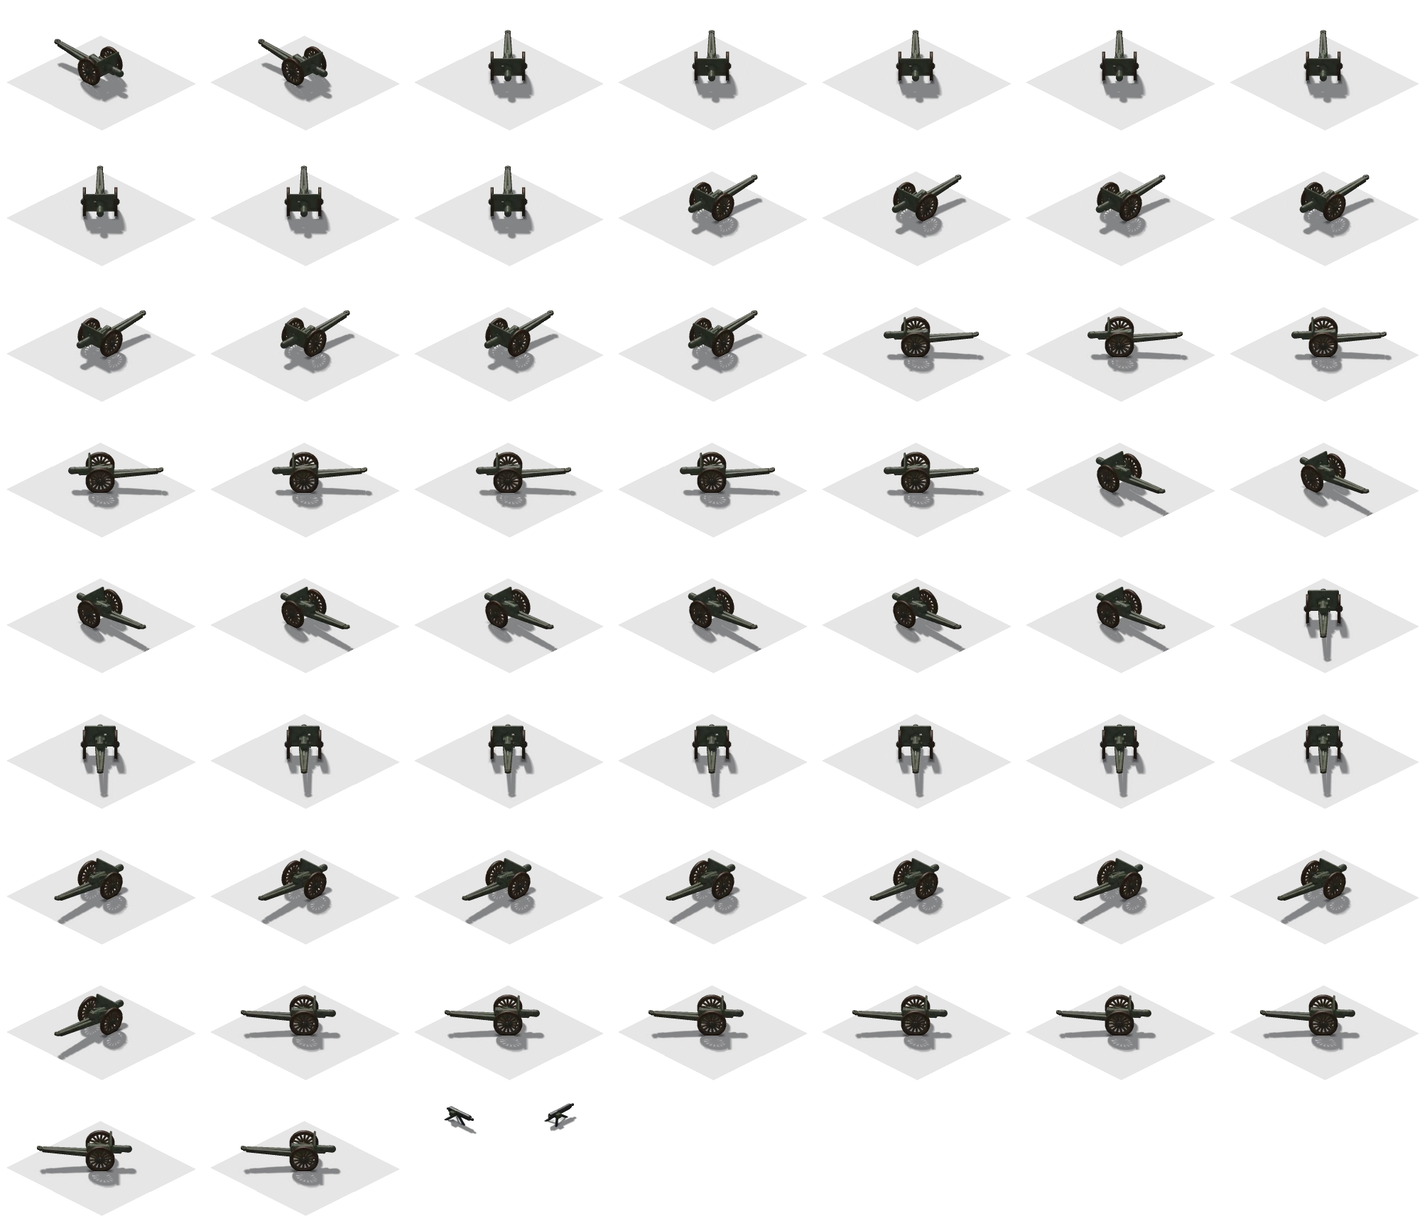
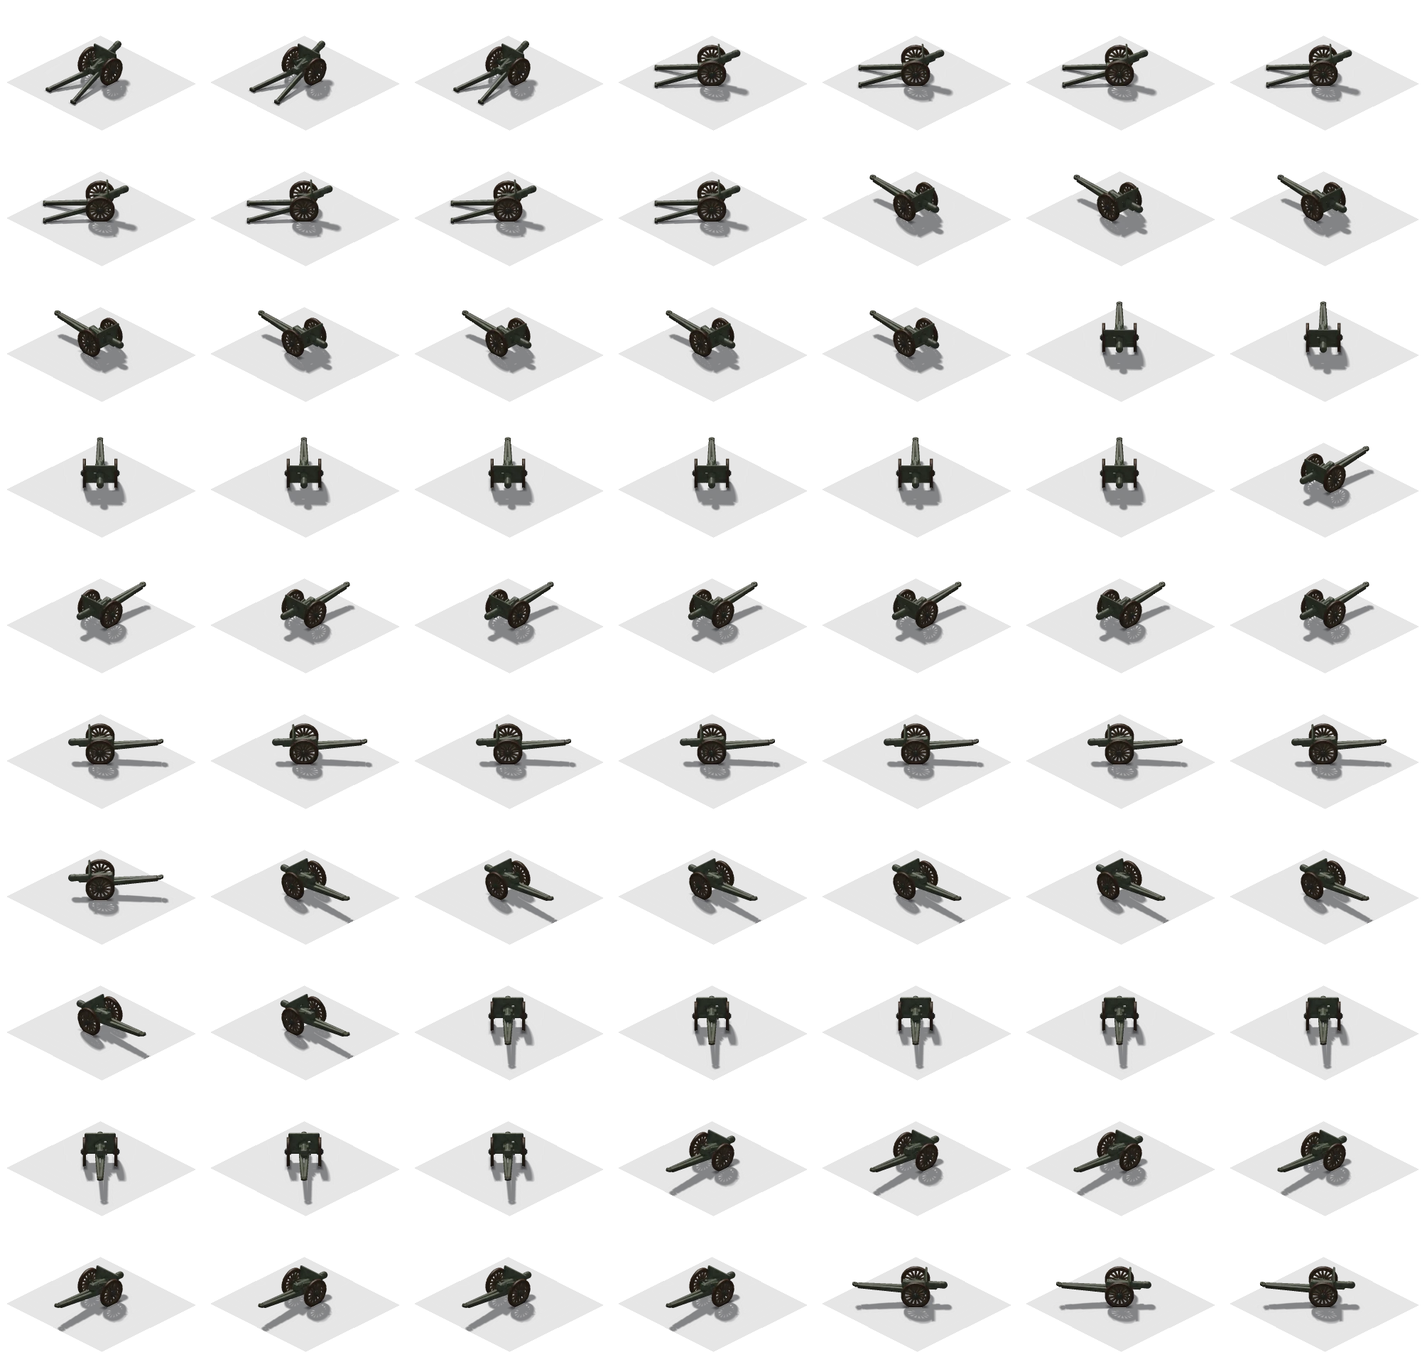
Tanks in the last battle
A new unit, built at headquarters in The Black Day only (key 4), at great cost (8 men, 300 ammunition,
260 supplies). Rendered from the supplied 3D model in 8 headings. It rolls over trenches and flattens
the wire it crosses; its machine guns fire every way (300 bursts aboard), its side guns at whatever lies
abeam (20 shells, small bursts). Bullets and splinters glance off; only a shell bursting right on it
knocks it out. Rolling into a trench it may ditch (10% in an enemy trench, a third of that in our own),
and on the move it may break down (about once in 200 s): either way it moves no more but fights on until
its ammunition is gone. The recruit buttons go to two columns when there are four; the unit card shows
its shells and rounds, and the map its ammunition bars and DITCHED / BROKEN DOWN / NO AMMUNITION.

Claude-Session: https://claude.ai/code/session_01QRLYjet5i3xPK5hPmw42NL

diff --git a/src/game.js b/src/game.js
@@ -79,6 +79,7 @@ function nearestTrenchInRow(map, team, x, y) {
 
 export function spawnUnit(state, type, team, x, y) {
   const t = UNIT_TYPES[type];
+  const tankStores = type === 'tank' ? { shells: t.shells, mgRounds: t.mgRounds, cannonTimer: 2 } : {};
   const u = {
     id: nextId++,
     type, team, x, y,
@@ -111,6 +112,7 @@ export function spawnUnit(state, type, team, x, y) {
     seed: rand(),
     dead: false,
     ai: {},
+    ...tankStores,
   };
   const tile = tileAt(state.map, x, y);
   u.inTrench = !!tile && tile.trench > 0;
@@ -218,11 +220,12 @@ export function buyUnit(state, team, type) {
   const t = UNIT_TYPES[type];
   const res = state.resources[team];
   if (hqThreatened(state, team)) return 'HQ under attack, no recruiting';
+  if (t.special && !(state.special && state.special[type])) return 'Not available in this battle';
   if (!canAfford(res, t.cost)) return 'Not enough resources';
   pay(res, t.cost);
   const hq = state.map.hq[team];
   const dir = teamDir(team);
-  if (type !== 'artillery') {
+  if (type !== 'artillery' && type !== 'tank') {
     // infantry and machine guns muster in the trenches near headquarters (not on the open ground beside
     // them, to climb in again at once): the least crowded spot of our own trench within a few tiles
     const spot = musterSpot(state, team);
@@ -458,12 +461,58 @@ const speedAt = (tile) => (tile.rock || tile.block ? 0 : terrainFactor(tile));
 export function planRoute(state, u, x, y) {
   if (globalThis.NO_PATH) return null; // (simulation experiments)
   const C = CLIMB[u.type] || CLIMB.rifle, sp = UNIT_TYPES[u.type].speed || 0.8;
+  if (u.type === 'tank') return findPath(state.map, u.x, u.y, x, y, (t) => (t.rock || t.block ? 0 : t.trench ? 0.6 : t.wire ? 0.9 : terrainFactor(t)), () => 0); // (it rolls over wire and trenches)
   if (u.type === 'artillery') { // a battery crosses a trench on planks it lays over it, never down in it
     const enter = (t) => (t.trench && !t.bridge ? BRIDGE_TIME * sp + 1 : 0);
     return findPath(state.map, u.x, u.y, x, y, (t) => (t.trench ? (t.bridge ? 1 : 0.9) : speedAt(t)), () => 0, enter);
   }
   const climb = (out) => (out ? C.out : C.in) * (1 + CLIMB_GAP * (C.groups - 1)) * 0.75 * sp;
   return findPath(state.map, u.x, u.y, x, y, speedAt, climb);
+}
+
+export const TANK_DITCH = 0.1; // chance of ditching in each enemy trench a tank crosses (a third of that in its own)
+export const TANK_BREAKDOWN = 1 / 200; // chance per second, on the move, of a mechanical failure
+/**
+ * A tank's own business each tick: it flattens the wire it rolls over; crossing a trench it may ditch
+ * (nose down, tracks spinning) and on the move it may break down - either way it moves no more, though it
+ * fights on; and its side guns fire on what lies abeam while it has shells.
+ */
+function tankTick(state, u, tile, dt) {
+  const t = UNIT_TYPES.tank;
+  if (tile && tile.wire > 0) { tile.wire = 0; markChanged(state.map, tile.x, tile.y); }
+  const key = tile ? tile.y * state.map.w + tile.x : -1;
+  if (key !== u.lastTile) {
+    // on rolling down into a trench (not along one): it may ditch - more likely in the enemy's broad trenches
+    const into = tile && tile.trench && !u.wasOnTrench;
+    if (into && !u.stuck && rand() < (tile.origOwner === u.team ? TANK_DITCH * 0.35 : TANK_DITCH)) { u.stuck = 'ditched'; if (u.team === PLAYER) pushMessage(state, 'A tank has ditched in a trench!', 'warn'); }
+    u.wasOnTrench = !!(tile && tile.trench);
+    u.lastTile = key;
+  }
+  if (u.moving && !u.stuck && rand() < TANK_BREAKDOWN * dt) { u.stuck = 'broken'; if (u.team === PLAYER) pushMessage(state, 'A tank has broken down!', 'warn'); }
+  if (u.stuck) { u.order = null; u.path = null; }
+  // the side guns: at whatever lies abeam (within 50 degrees of square to its heading), riflemen and guns first
+  u.cannonTimer = (u.cannonTimer || 0) - dt;
+  if (u.cannonTimer > 0 || !(u.shells > 0)) return;
+  const hl = Math.hypot(u.hx, u.hy) || 1, hx = u.hx / hl, hy = u.hy / hl;
+  let best = null, bs = Infinity;
+  for (const e of state.units) {
+    if (e.dead || e.team === u.team || !e.visible && e.team !== PLAYER) continue;
+    const dx = e.x - u.x, dy = e.y - u.y, d = Math.hypot(dx, dy);
+    if (d < 1.5 || d > t.cannonRange) continue;
+    if (Math.abs((dx * hx + dy * hy) / d) > 0.64) continue; // not abeam
+    const sc = d * (e.type === 'mg' ? 0.6 : e.type === 'artillery' ? 0.7 : e.type === 'tank' ? 0.5 : 1);
+    if (sc < bs) { bs = sc; best = e; }
+  }
+  if (!best) { u.cannonTimer = 0.5; return; }
+  u.shells--; u.cannonTimer = t.cannonInterval * (0.85 + rand() * 0.3);
+  const sp = 0.25 + dist(u, best) * 0.05, a = rand() * Math.PI * 2, r = rand() * sp;
+  const side = Math.sign((best.x - u.x) * -hy + (best.y - u.y) * hx) || 1;
+  const fx = -hy * side, fy = hx * side;
+  state.effects.push({ type: 'gunflash', x: u.x + fx * 0.6, y: u.y + fy * 0.6, age: 0, life: 0.3, hx: fx, hy: fy, facing: Math.sign(fx - fy) || 1 });
+  state.events.push({ type: 'artyfire', x: u.x, y: u.y });
+  u.firing = 0.3; u.lastShot = state.time; u.cannonSide = side;
+  explode(state, { x: best.x + Math.cos(a) * r, y: best.y + Math.sin(a) * r, team: u.team, big: 0.55 }); // (a 6-pounder: a small burst)
+  if (u.shells === 0 && u.team === PLAYER) pushMessage(state, 'A tank has fired its last shell.', 'warn');
 }
 
 function terrainFactor(tile) {
@@ -482,7 +531,8 @@ function updateUnit(state, u, dt) {
   const t = UNIT_TYPES[u.type];
   const tile = tileAt(state.map, u.x, u.y);
   const wasIn = u.inTrench;
-  u.inTrench = !!tile && tile.trench > 0 && u.type !== 'artillery'; // a battery never goes down into a trench (it bridges it)
+  u.inTrench = !!tile && tile.trench > 0 && u.type !== 'artillery' && u.type !== 'tank'; // a battery never goes down into a trench (it bridges it); a tank rolls over it
+  if (u.type === 'tank') tankTick(state, u, tile, dt);
   // at sea: the men are in a boat (rowed in to the beach); stepping ashore leaves the boat beached at the water's edge
   const afloat = !!(tile && tile.sea) && !u.onShip; // (the guns on the River Clyde's deck are not in a boat)
   // the men jump out on the beach at once; one of the crew rows the empty boat back out to sea
@@ -491,7 +541,7 @@ function updateUnit(state, u, dt) {
   // climbing out of a trench, or down into one, takes time: the men haul themselves over the parapet.
   // Out: as soon as the ground just ahead is no longer trench (the men are at the trench wall).
   // In: on stepping onto a trench tile.
-  if (u.order && !u.climb && u.type !== 'artillery') {
+  if (u.order && !u.climb && u.type !== 'artillery' && u.type !== 'tank') {
     const charge = u.order.kind === 'charge';
     // the unit climbs group by group (a rifle squad's two ranks, an MG team's two pairs, a battery crew's
     // three pairs, hauling the gun): each group takes `rank` seconds, the next starting as the one before is
@@ -628,7 +678,7 @@ function updateUnit(state, u, dt) {
   }
 
   // --- melee (bayonets, clubs, grenades)
-  if (u.closest && closeD < MELEE_RANGE) {
+  if (u.closest && closeD < MELEE_RANGE && u.type !== 'tank') {
     let dmg = u.men * t.melee * dt * 1.5;
     if (u.chargeBonus > 0) dmg *= 2.0; // the shock of a bayonet charge
     if (u.suppression > 50) dmg *= 0.5;
@@ -640,9 +690,10 @@ function updateUnit(state, u, dt) {
 
   // --- small-arms fire
   u.fireTimer = Math.max(0, u.fireTimer - dt * (u.moving ? 0.6 : 1));
-  if (t.range && !charging && !u.holdFire && !u.afloat && !(u.onShip && u.pinned) && u.target && u.setup <= 0 && !(u.packing > 0) && u.fireTimer <= 0) {
+  if (t.range && !charging && !u.holdFire && !u.afloat && !(u.onShip && u.pinned) && !(u.type === 'tank' && !(u.mgRounds > 0)) && u.target && u.setup <= 0 && !(u.packing > 0) && u.fireTimer <= 0) {
     if (dist(u, u.target) <= (u.range || t.range)) { // (a unit may have its own reach: the River Clyde's guns)
       fire(state, u, u.target, t);
+      if (u.type === 'tank') u.mgRounds--;
       u.fireTimer = t.fireInterval * (0.85 + rand() * 0.3);
     }
   }
@@ -734,6 +785,12 @@ function fire(state, u, target, t) {
  */
 export function damageUnit(state, u, amount, blast = null, shooter = null) {
   if (u.dead || amount <= 0 || u.invulnerable) return; // invulnerable: kept alive by a scripted scene
+  if (u.type === 'tank') { // armour: bullets and splinters glance off; only a shell bursting right on it knocks it out
+    if (!blast || blast.d > 0.8) return;
+    amount = u.hp;
+    state.effects.push({ type: 'smoke', x: u.x, y: u.y, age: 0, life: 40 }, { type: 'boom', x: u.x, y: u.y, age: 0, life: 0.7 });
+    if (u.team === PLAYER) pushMessage(state, 'A tank has been knocked out by a direct hit!', 'loss');
+  }
   const t = UNIT_TYPES[u.type];
   const before = u.men;
   if (u.afloat) amount *= blast ? 0.5 : 1.4; // men packed in an open boat: exposed to rifle and machine-gun fire, but low in the water, shell splinters mostly spent on the sea
@@ -742,7 +799,7 @@ export function damageUnit(state, u, amount, blast = null, shooter = null) {
   u.hp -= amount;
   u.men = Math.max(0, Math.ceil(u.hp / t.hpPerMan - 1e-6));
   state.stats.lost[u.team] += before - u.men;
-  if (!u.afloat) for (let i = 0; i < Math.min(3, before - u.men); i++) fallen(state, u, blast, shooter);
+  if (!u.afloat && u.type !== 'tank') for (let i = 0; i < Math.min(3, before - u.men); i++) fallen(state, u, blast, shooter);
   else { // at sea the dead go over the side and float, drifting, until they sink from sight
     const fl = state.floaters || (state.floaters = []);
     for (let i = 0; i < Math.min(smashed ? 4 : 2, before - u.men); i++) fl.push({ kind: 'body', x: u.x + (rand() - 0.5) * (smashed ? 1.4 : 0.8), y: u.y + (rand() - 0.5) * (smashed ? 1.0 : 0.6), v: Math.floor(rand() * 3), d: [0, 2, 5][Math.floor(rand() * 3)], t: state.time, life: 22 + rand() * 18, m: rand() < 0.5 });

diff --git a/src/render.js b/src/render.js
@@ -1790,6 +1790,27 @@ export class Renderer {
     return true;
   }
 
+  /** A tank (pre-rendered from its 3D model, 8 headings), rocking a little on the move; nose-down when ditched. */
+  drawTank(ctx, p, u, t, selected, time) {
+    if (selected) { ctx.strokeStyle = 'rgba(160,255,110,0.95)'; ctx.lineWidth = 1.8; ctx.beginPath(); ctx.ellipse(p.x, p.y, 52, 26, 0, 0, TAU); ctx.stroke(); }
+    const dir = ((Math.round(Math.atan2(u.hy, u.hx) / (Math.PI / 4)) % 8) + 8) % 8;
+    const rock = u.moving ? Math.sin(time * 7 + u.seed * 9) * 1.2 : 0;
+    const sink = u.stuck === 'ditched' ? 7 : 0;
+    ctx.save();
+    if (u.stuck === 'ditched') { ctx.translate(p.x, p.y); ctx.rotate(0.1 * (dir < 4 ? 1 : -1)); ctx.translate(-p.x, -p.y); }
+    const ok = this.drawFrame(ctx, 'units', `tank_d${dir}`, p.x, p.y + rock + sink, 1);
+    ctx.restore();
+    if (!ok) { ctx.fillStyle = '#4a4436'; ctx.beginPath(); ctx.ellipse(p.x, p.y - 12, 40, 20, 0, 0, TAU); ctx.fill(); }
+    if (u.stuck === 'broken' && Math.floor(time * 2 + u.seed * 5) % 3 === 0) { ctx.fillStyle = 'rgba(70,70,72,0.35)'; ctx.beginPath(); ctx.arc(p.x + 6, p.y - 44 - (time * 12 % 14), 7, 0, TAU); ctx.fill(); } // smoke from the engine
+    // strength (it is a direct hit or nothing), shells and machine-gun rounds, and what is wrong with it
+    const by = p.y - 58;
+    ctx.fillStyle = 'rgba(0,0,0,0.6)'; ctx.fillRect(p.x - 18, by, 36, 7);
+    ctx.fillStyle = '#e8c35a'; ctx.fillRect(p.x - 17, by + 1, 34 * Math.max(0, (u.shells || 0) / t.shells), 2);
+    ctx.fillStyle = '#c9c4b2'; ctx.fillRect(p.x - 17, by + 4, 34 * Math.max(0, (u.mgRounds || 0) / t.mgRounds), 2);
+    const label = u.stuck === 'ditched' ? 'DITCHED' : u.stuck === 'broken' ? 'BROKEN DOWN' : !(u.shells > 0) && !(u.mgRounds > 0) ? 'NO AMMUNITION' : '';
+    if (label) { ctx.font = 'bold 8px sans-serif'; ctx.textAlign = 'center'; ctx.fillStyle = '#ffb060'; this.wtext(ctx, label, p.x, by - 2); }
+  }
+
   /** Howitzer from the supplied art: a faces -x, b faces +y; mirrored for -y / +x. */
   /** Heading a gun is drawn with: trail-first while being moved, otherwise laid on its target. */
   static gunHeading(u) { return Renderer.travelling(u) ? [-u.hx, -u.hy] : [u.aimX ?? u.hx, u.aimY ?? u.hy]; }
@@ -1871,6 +1892,7 @@ export class Renderer {
       const stroke = Math.floor((time * 2.2 + u.id * 0.37) % 4); // all hands at the oars
       if (this.drawFrame(ctx, this.propGroup(), `boat${u.id % 3}_r${stroke}`, p.x, p.y + bob, 1) || this.drawFrame(ctx, this.propGroup(), `boat${u.id % 3}`, p.x, p.y + bob, 1)) return;
     }
+    if (u.type === 'tank') { this.drawTank(ctx, p, u, t, selected, time); return; }
     if (selected) {
       ctx.strokeStyle = 'rgba(160,255,110,0.95)'; ctx.lineWidth = 1.6;
       ctx.beginPath(); ctx.ellipse(p.x, p.y, 22, 11, 0, 0, TAU); ctx.stroke();

diff --git a/src/campaign.js b/src/campaign.js
@@ -956,7 +956,7 @@ export const LEVELS = [
     radius: 59, // a broad front: three times the usual battlefield
     history: 'August 1918. Four years of war have taught the Allied armies how to win. Your American division holds the centre of a great line, with the British on one flank and the French on the other. At zero hour, in thick fog, more than two thousand guns open fire at once and the whole line goes forward behind the barrage - with you or without you. The German line is deep, three trench lines bristling with machine guns, and he will counter-attack whatever is taken. Break through and take his headquarters before the day is out.',
     objectives: ['Take the enemy headquarters before midnight.', 'Go forward with the British and French at zero hour.', 'Do not let the enemy take your headquarters.'],
-    rules: ['You command the Americans in the centre. The British and French on your flanks are under their own command: at zero hour they attack whatever you do.', 'Zero hour comes after a short countdown. Be ready to go forward with them, or they will be fighting alone.', 'The enemy defends in depth, and every few hours his reserves counter-attack what has been taken. A long summer day: the clock runs slower than in other battles.'],
+    rules: ['You command the Americans in the centre. The British and French on your flanks are under their own command: at zero hour they attack whatever you do.', 'Zero hour comes after a short countdown. Be ready to go forward with them, or they will be fighting alone.', 'Tanks can be built at headquarters, at great cost: they crush wire and cross trenches, but may ditch or break down, and only carry so much ammunition.', 'The enemy defends in depth, and every few hours his reserves counter-attack what has been taken. A long summer day: the clock runs slower than in other battles.'],
     medals: ['The Black Day of the German army', 'By noon: the enemy headquarters taken before 12:00', 'Fewer than 800 men lost along the whole front, allies included'],
     debrief: {
       won: 'On 8 August 1918 the Allied armies advanced eight miles in a single day, and whole German units surrendered. General Ludendorff called it "the black day of the German army". It began the Hundred Days Offensive, and three months later the war was over.',
@@ -1002,6 +1002,7 @@ export const LEVELS = [
       const ai = state.ais[0];
       ai.level = { ...DIFFICULTY.medium, firstAttack: 3600, attackGap: [1200, 1500], income: 0.7 };
       ai.offensive = 3600;
+      state.special = { tank: true }; // tanks can be built at headquarters in this battle
       state.campaign.zero = 120; // zero hour, in seconds of battle time
     },
     events: [

diff --git a/index.html b/index.html
@@ -9,7 +9,7 @@
   <link rel="icon" href="favicon.ico" sizes="16x16 32x32 48x48">
   <link rel="apple-touch-icon" href="assets/icon/apple-touch-icon.png">
   <meta name="theme-color" content="#15120d">
-  <link rel="stylesheet" href="style.css?v=01786f68" />
+  <link rel="stylesheet" href="style.css?v=682ed8d9" />
   <!-- stamp:begin (scripts/stamp.mjs) -->
   <script type="importmap">
   {
@@ -17,18 +17,18 @@
       "./src/ai.js": "./src/ai.js?v=3e8e2a90",
       "./src/atmosphere.js": "./src/atmosphere.js?v=e3ff2b7a",
       "./src/audio.js": "./src/audio.js?v=79fe07fc",
-      "./src/campaign.js": "./src/campaign.js?v=b8639a86",
-      "./src/config.js": "./src/config.js?v=82ca61d3",
-      "./src/game.js": "./src/game.js?v=8ede8c70",
+      "./src/campaign.js": "./src/campaign.js?v=c6646f7d",
+      "./src/config.js": "./src/config.js?v=ee8c699f",
+      "./src/game.js": "./src/game.js?v=4961e988",
       "./src/main.js": "./src/main.js?v=a4ea0d29",
       "./src/map.js": "./src/map.js?v=3ed5bbdb",
       "./src/model-view.js": "./src/model-view.js?v=214a5b12",
       "./src/path.js": "./src/path.js?v=23c490f7",
       "./src/relief.js": "./src/relief.js?v=2441f819",
-      "./src/render.js": "./src/render.js?v=b82df10b",
+      "./src/render.js": "./src/render.js?v=d623301b",
       "./src/save.js": "./src/save.js?v=523a18d8",
       "./src/tutorial.js": "./src/tutorial.js?v=134dce8b",
-      "./src/ui.js": "./src/ui.js?v=daea7bb0",
+      "./src/ui.js": "./src/ui.js?v=36b22117",
       "./src/voice.js": "./src/voice.js?v=a581782b"
     }
   }
@@ -76,6 +76,7 @@
             <button data-recruit="rifle" class="pic"><img alt=""><span><kbd>1</kbd> Rifle Squad<small></small></span></button>
             <button data-recruit="mg" class="pic"><img src="assets/art/card-mg.webp" alt=""><span><kbd>2</kbd> MG Team<small></small></span></button>
             <button data-recruit="artillery" class="pic"><img src="assets/art/card-artillery.webp" alt=""><span><kbd>3</kbd> Field Battery<small></small></span></button>
+            <button data-recruit="tank" class="pic hidden"><img src="assets/art/card-tank.webp" alt=""><span><kbd>4</kbd> Tank<small></small></span></button>
           </div>
         </div>
         <div class="group">

diff --git a/src/ui.js b/src/ui.js
@@ -413,6 +413,7 @@ export class UI {
           case '1': this.doRecruit('rifle'); break;
           case '2': this.doRecruit('mg'); break;
           case '3': this.doRecruit('artillery'); break;
+          case '4': if (this.state.special && this.state.special.tank) this.doRecruit('tank'); break;
           case ' ': e.preventDefault(); this.centerOnFront(); break;
         }
       }
@@ -504,6 +505,7 @@ export class UI {
     const threatened = hqThreatened(s, PLAYER);
     for (const [type, t] of Object.entries(UNIT_TYPES)) {
       const b = document.querySelector(`[data-recruit="${type}"]`);
+      if (t.special) b.classList.toggle('hidden', !(s.special && s.special[type])); // (only in a battle that provides it)
       b.disabled = threatened || !(res.men >= t.cost.men && res.ammo >= t.cost.ammo && res.supplies >= t.cost.supplies);
       b.title = threatened ? 'Enemy troops are at our HQ: no new units can be raised until they are driven off' : t.desc;
     }
@@ -559,7 +561,8 @@ export class UI {
         else if (u.type === 'artillery' && u.packing > 0) status = 'limbering up';
         else if (u.type === 'artillery' && u.setup > 0 && !u.order) status = 'unlimbering';
         // MG teams and batteries show their weapon, rifle squads a soldier of the army
-        const por = u.type === 'mg' || u.type === 'artillery' ? `<img class="portrait equip" src="assets/art/card-${u.type}.webp" alt="">`
+        if (u.type === 'tank') status = u.stuck === 'ditched' ? 'DITCHED' : u.stuck === 'broken' ? 'BROKEN DOWN' : !(u.shells > 0) && !(u.mgRounds > 0) ? 'out of ammunition' : `${u.shells} shells · ${u.mgRounds} MG` + (u.order ? ' · moving' : '');
+        const por = u.type === 'mg' || u.type === 'artillery' || u.type === 'tank' ? `<img class="portrait equip" src="assets/art/card-${u.type}.webp" alt="">`
           : this.r.portraitOf && s.nations ? `<img class="portrait" src="${this.r.portraitOf(s.nations[PLAYER])}" alt="">` : '';
         // a portrait card: its name at the top, the unit's picture large with its men in a corner badge, the status,
         // and the strength and suppression bars at the bottom

diff --git a/src/config.js b/src/config.js
@@ -75,6 +75,31 @@ export const UNIT_TYPES = {
     hotkey: '3',
     desc: 'Field guns. Bombard a target area: kills, suppresses, cuts wire and wrecks trenches.',
   },
+  tank: {
+    key: 'tank',
+    name: 'Tank',
+    short: 'Tank',
+    men: 8,
+    hpPerMan: 40,
+    range: 8, // its machine guns, firing every way
+    sight: 9,
+    speed: 0.22,
+    melee: 0,
+    fireInterval: 0.6,
+    burst: 6,
+    hitChance: 0.22,
+    damage: 6,
+    suppressPerShot: 2.6,
+    ammoPerShot: 0, // (its own ammunition, aboard)
+    mgRounds: 300, // bursts of machine-gun fire it carries
+    shells: 20, // rounds for its side guns
+    cannonRange: 11,
+    cannonInterval: 4.5,
+    cost: { men: 8, ammo: 300, supplies: 260 },
+    hotkey: '4',
+    special: true, // (only where a level provides it)
+    desc: 'A landship: rolls over wire and trenches, its machine guns fire every way and its side guns hit what lies abeam. Only a direct shell hit destroys it, but it may ditch in a trench or break down, and its ammunition runs out.',
+  },
 };
 
 // Damage multipliers by trench level (index 0 = open ground).

diff --git a/style.css b/style.css
@@ -853,3 +853,6 @@ html, body, button, #overlay, #bottom, #topbar { touch-action: manipulation; }
 #pause-sign.hidden { display: none; }
 @keyframes pause-in { from { opacity: 0; transform: translate(-50%, -50%) scale(0.85); } }
 @media (max-width: 700px), (max-height: 500px) { #pause-sign { width: 104px; height: 104px; } #pause-sign span { font-size: 36px; } }
+
+/* a battle with tanks: the four recruit buttons in two columns, so they fit the panel */
+.group .btns:has(> button[data-recruit="tank"]:not(.hidden)) { grid-template-columns: auto auto; column-gap: 6px; }

diff --git a/tools/render-glb/README.md b/tools/render-glb/README.md
@@ -37,3 +37,8 @@ battle 1 in `src/campaign.js`), whose tiles inside the footprint are then made i
 | sprite | model | command options |
 | --- | --- | --- |
 | `church-galicia.webp` | Autumn Sanctuary (wooden church with onion domes) | `--yaw 1.5708 --scale 3` |
+
+## The Black Day (battle 5)
+
+`tank_d0`-`tank_d7` (in `assets/props`, packed into the units atlas): Rustclad Landship, rendered for each of
+the 8 headings d with `--yaw π/4 + (5 - d)·π/4 --scale 1.3 --px 3 --sat 0.85` (manifest scale 3).
